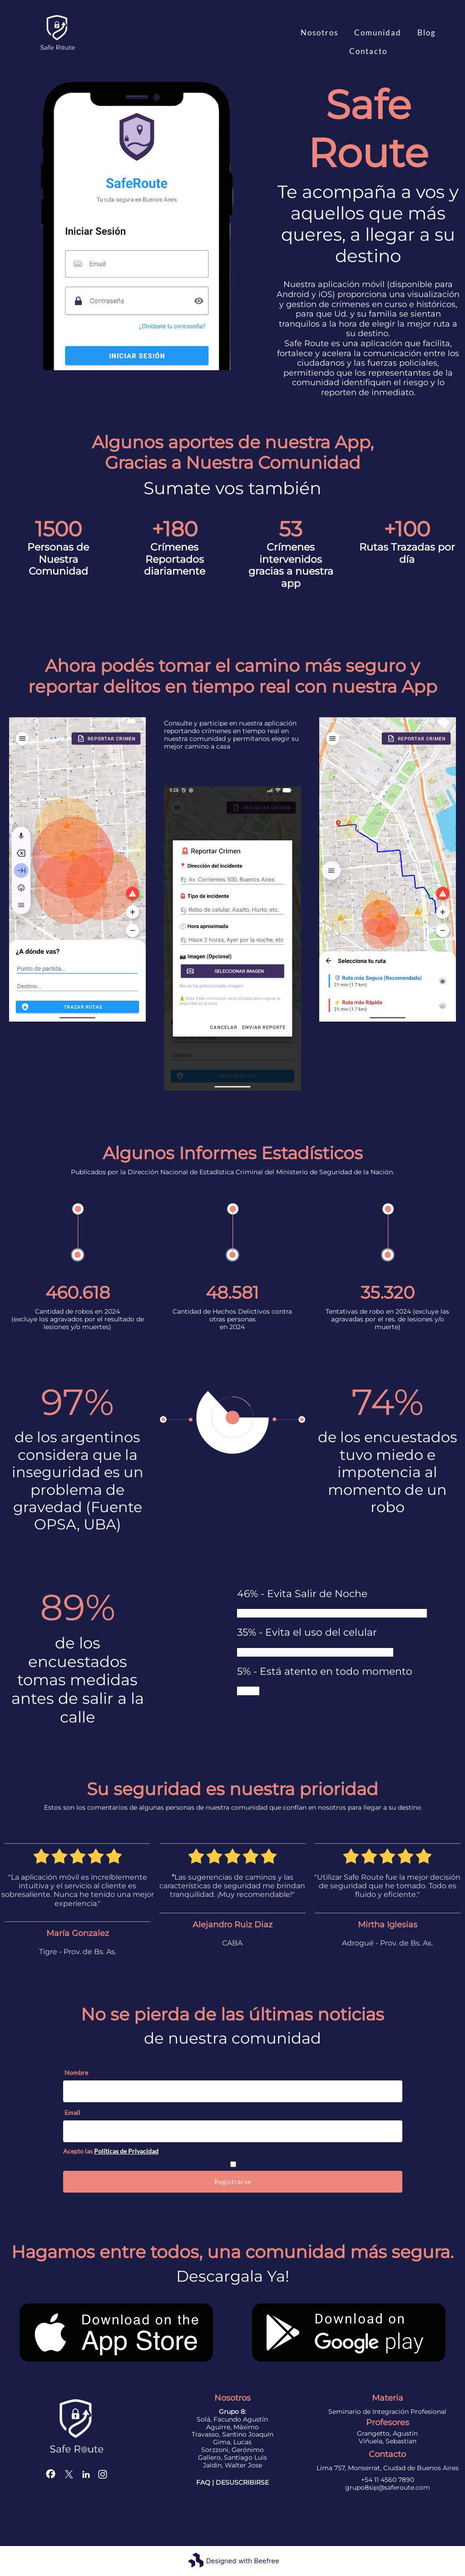
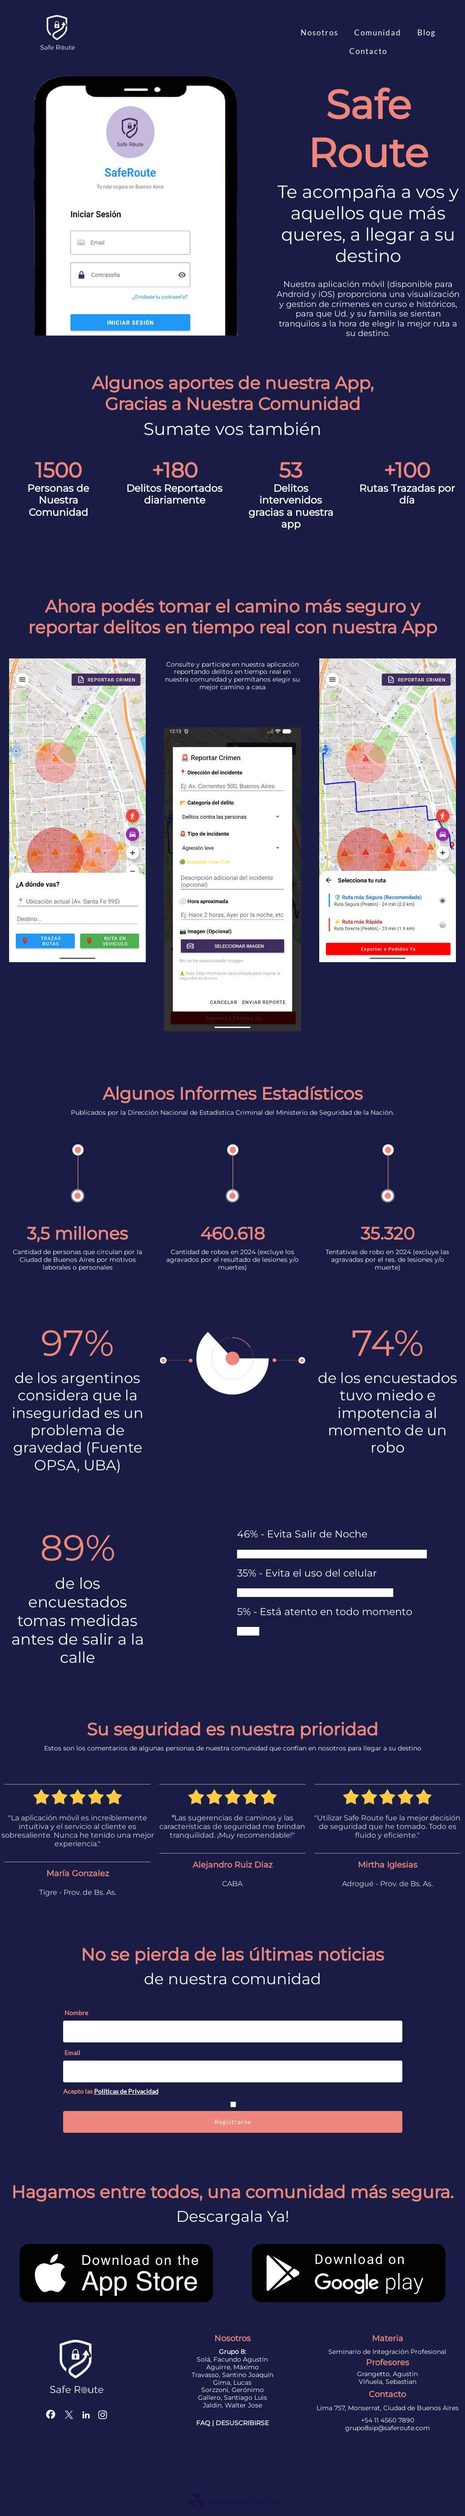
new interfaz

Changed region(s): [[0.0, 0.0, 1.0, 1.0], [0.5, 0.4371, 0.9688, 0.6557]]

diff --git a/index.html b/index.html
@@ -324,12 +324,14 @@
 		.bee-row-25 .bee-row-content,
 		.bee-row-26 .bee-row-content,
 		.bee-row-27 .bee-row-content,
+		.bee-row-28 .bee-row-content,
 		.bee-row-3 .bee-row-content,
 		.bee-row-4 .bee-row-content,
 		.bee-row-5 .bee-row-content,
 		.bee-row-7 .bee-row-content,
 		.bee-row-8 .bee-row-content,
 		.bee-row-9 .bee-row-content {
+			background-color: #191d46;
 			background-repeat: no-repeat;
 			color: #000000
 		}
@@ -450,6 +452,7 @@
 		.bee-row-20 .bee-row-content,
 		.bee-row-21 .bee-row-content,
 		.bee-row-6 .bee-row-content {
+			background-color: #191d46;
 			background-position: top center;
 			background-repeat: no-repeat;
 			color: #000000
@@ -512,6 +515,7 @@
 
 		.bee-row-19 .bee-row-content,
 		.bee-row-22 .bee-row-content {
+			background-color: #191d46;
 			background-repeat: no-repeat;
 			border-radius: 0;
 			color: #000000
@@ -574,12 +578,6 @@
 		.bee-row-28 {
 			background-color: #ffffff;
 			background-repeat: no-repeat
-		}
-
-		.bee-row-28 .bee-row-content {
-			background-color: #ffffff;
-			background-repeat: no-repeat;
-			color: #000000
 		}
 
 		.bee-row-28 .bee-col-1 .bee-block-1 {
@@ -689,9 +687,23 @@
 			text-align: center
 		}
 
-		.bee-row-6 .bee-col-1 .bee-block-2 {
-			color: #ffffff;
-			font-size: 38px;
+		.bee-row-7 .bee-col-1 .bee-block-1,
+		.bee-row-7 .bee-col-2 .bee-block-1,
+		.bee-row-7 .bee-col-3 .bee-block-1,
+		.bee-row-7 .bee-col-4 .bee-block-1 {
+			color: #ef867c;
+			font-size: 46px;
+			line-height: 120%;
+			text-align: center
+		}
+
+		.bee-row-7 .bee-col-1 .bee-block-2,
+		.bee-row-7 .bee-col-2 .bee-block-2,
+		.bee-row-7 .bee-col-3 .bee-block-2,
+		.bee-row-7 .bee-col-4 .bee-block-2 {
+			color: #e80046;
+			font-size: 22px;
+			line-height: 120%;
 			text-align: center
 		}
 
@@ -711,35 +723,22 @@
 			text-align: center
 		}
 
-		.bee-row-7 .bee-col-1 .bee-block-2,
-		.bee-row-7 .bee-col-2 .bee-block-2,
-		.bee-row-7 .bee-col-3 .bee-block-2,
-		.bee-row-7 .bee-col-4 .bee-block-2 {
-			color: #e80046;
-			font-size: 22px;
-			line-height: 120%;
+		.bee-row-6 .bee-col-1 .bee-block-2 {
+			color: #ffffff;
+			font-size: 38px;
 			text-align: center
 		}
 
-		.bee-row-7 .bee-col-1 .bee-block-1,
-		.bee-row-7 .bee-col-2 .bee-block-1,
-		.bee-row-7 .bee-col-3 .bee-block-1,
-		.bee-row-7 .bee-col-4 .bee-block-1 {
-			color: #ef867c;
-			font-size: 46px;
-			line-height: 120%;
-			text-align: center
-		}
-
+		.bee-row-11 .bee-col-1 .bee-block-4,
+		.bee-row-11 .bee-col-2 .bee-block-4,
 		.bee-row-9 .bee-col-2 .bee-block-1 {
-			color: #393d47;
+			color: #ffffff;
 			font-size: 14px;
 			line-height: 120%;
-			text-align: left
+			text-align: center
 		}
 
 		.bee-row-10 .bee-col-1 .bee-block-3,
-		.bee-row-11 .bee-col-1 .bee-block-4,
 		.bee-row-11 .bee-col-3 .bee-block-4,
 		.bee-row-17 .bee-col-1 .bee-block-2,
 		.bee-row-25 .bee-col-2 .bee-block-2,
@@ -753,10 +752,11 @@
 			text-align: center
 		}
 
-		.bee-row-11 .bee-col-2 .bee-block-4 {
-			color: #ffffff;
-			font-size: 14px;
-			line-height: 120%;
+		.bee-row-13 .bee-col-1 .bee-block-1,
+		.bee-row-13 .bee-col-3 .bee-block-1,
+		.bee-row-15 .bee-col-1 .bee-block-1 {
+			color: #ef867c;
+			font-size: 80px;
 			text-align: center
 		}
 
@@ -764,14 +764,6 @@
 		.bee-row-13 .bee-col-3 .bee-block-2 {
 			color: #ffffff;
 			font-size: 32px;
-			text-align: center
-		}
-
-		.bee-row-13 .bee-col-1 .bee-block-1,
-		.bee-row-13 .bee-col-3 .bee-block-1,
-		.bee-row-15 .bee-col-1 .bee-block-1 {
-			color: #ef867c;
-			font-size: 80px;
 			text-align: center
 		}
 
@@ -788,19 +780,6 @@
 		.bee-row-21 .bee-col-1 .bee-block-2 {
 			color: #ffffff;
 			font-size: 34px;
-			text-align: center
-		}
-
-		.bee-row-19 .bee-col-1 .bee-block-5 h2,
-		.bee-row-19 .bee-col-2 .bee-block-5 h2,
-		.bee-row-19 .bee-col-3 .bee-block-5 h2 {
-			color: #ef867c;
-			direction: ltr;
-			font-family: Montserrat, Trebuchet MS, Lucida Grande, Lucida Sans Unicode, Lucida Sans, Tahoma, sans-serif;
-			font-size: 18px;
-			font-weight: 400;
-			letter-spacing: normal;
-			line-height: 120%;
 			text-align: center
 		}
 
@@ -823,6 +802,19 @@
 		.bee-row-19 .bee-col-3 .bee-block-3 a,
 		.bee-row-19 .bee-col-3 .bee-block-6 a {
 			color: #ad97e2
+		}
+
+		.bee-row-19 .bee-col-1 .bee-block-5 h2,
+		.bee-row-19 .bee-col-2 .bee-block-5 h2,
+		.bee-row-19 .bee-col-3 .bee-block-5 h2 {
+			color: #ef867c;
+			direction: ltr;
+			font-family: Montserrat, Trebuchet MS, Lucida Grande, Lucida Sans Unicode, Lucida Sans, Tahoma, sans-serif;
+			font-size: 18px;
+			font-weight: 400;
+			letter-spacing: normal;
+			line-height: 120%;
+			text-align: center
 		}
 
 		@media (max-width:768px) {
@@ -907,10 +899,6 @@
 				font-size: 28px !important
 			}
 
-			.bee-row-6 .bee-col-1 .bee-block-2 {
-				font-size: 38px !important
-			}
-
 			.bee-row-10 .bee-col-1 .bee-block-2,
 			.bee-row-17 .bee-col-1 .bee-block-1,
 			.bee-row-20 .bee-col-1 .bee-block-2,
@@ -921,16 +909,26 @@
 				font-size: 35px !important
 			}
 
-			.bee-row-13 .bee-col-1 .bee-block-2,
-			.bee-row-13 .bee-col-3 .bee-block-2,
-			.bee-row-15 .bee-col-1 .bee-block-2 {
-				font-size: 22px !important
+			.bee-row-6 .bee-col-1 .bee-block-2 {
+				font-size: 38px !important
 			}
 
 			.bee-row-13 .bee-col-1 .bee-block-1,
 			.bee-row-13 .bee-col-3 .bee-block-1,
 			.bee-row-15 .bee-col-1 .bee-block-1 {
 				font-size: 50px !important
+			}
+
+			.bee-row-13 .bee-col-1 .bee-block-2,
+			.bee-row-13 .bee-col-3 .bee-block-2,
+			.bee-row-15 .bee-col-1 .bee-block-2 {
+				font-size: 22px !important
+			}
+
+			.bee-row-19 .bee-col-1 .bee-block-6,
+			.bee-row-19 .bee-col-2 .bee-block-6,
+			.bee-row-19 .bee-col-3 .bee-block-6 {
+				text-align: center !important
 			}
 
 			.bee-row-19 .bee-col-1 .bee-block-5,
@@ -940,12 +938,6 @@
 			.bee-row-19 .bee-col-3 .bee-block-5,
 			.bee-row-19 .bee-col-3 .bee-block-5 h2 {
 				text-align: center
-			}
-
-			.bee-row-19 .bee-col-1 .bee-block-6,
-			.bee-row-19 .bee-col-2 .bee-block-6,
-			.bee-row-19 .bee-col-3 .bee-block-6 {
-				text-align: center !important
 			}
 		}
 
@@ -1125,7 +1117,7 @@
 					<div class="bee-block bee-block-1 bee-divider">
 						<div class="spacer" style="height:0px;"></div>
 					</div>
-					<div class="bee-block bee-block-2 bee-image"><a href="https://www.example.com" target="_self"><img alt="Graphic-image" class="bee-center bee-fixedwidth" src="images/3_high_quality2_1.png" style="max-width:448px;" title="Graphic-image" /></a></div>
+					<div class="bee-block bee-block-2 bee-image"><a href="https://www.example.com" target="_self"><img alt="Graphic-image" class="bee-center bee-fixedwidth" src="images/3_front2_3.png" style="max-width:448px;border-radius:60px 60px 0px 0px;" title="Graphic-image" /></a></div>
 				</div>
 				<div class="bee-col bee-col-2 bee-col-w5">
 					<div class="bee-block bee-block-1 bee-divider">
@@ -1141,7 +1133,7 @@
 						<div class="spacer" style="height:10px;"></div>
 					</div>
 					<div class="bee-block bee-block-5 bee-paragraph">
-						<p style="word-break: break-word;"><span style="color: #ffffff;">Nuestra aplicación móvil (disponible para Android y iOS) proporciona una visualización y gestion de delitos o incidentes en curso e históricos, para que Ud. y su familia se sientan tranquilos a la hora de elegir la mejor ruta a su destino.</span></p>
+						<p style="word-break: break-word;"><span style="color: #ffffff;">Nuestra aplicación móvil (disponible para Android y iOS) proporciona una visualización y gestion de crímenes en curso e históricos, para que Ud. y su familia se sientan tranquilos a la hora de elegir la mejor ruta a su destino.</span></p>
 					</div>
 				</div>
 			</div>
@@ -1240,19 +1232,19 @@
 		<div class="bee-row bee-row-9">
 			<div class="bee-row-content">
 				<div class="bee-col bee-col-1 bee-col-w4">
-					<div class="bee-block bee-block-1 bee-image"><img alt="top-photo-rated" class="bee-center bee-autowidth" src="images/4_Screenshot_20251108_213054.png" style="max-width:386px;" title="top-photo-rated" /></div>
+					<div class="bee-block bee-block-1 bee-image"><img alt="top-photo-rated" class="bee-center bee-autowidth" src="images/4_Screenshot_20251118_121159.png" style="max-width:386px;" title="top-photo-rated" /></div>
 				</div>
 				<div class="bee-col bee-col-2 bee-col-w4">
 					<div class="bee-block bee-block-1 bee-paragraph">
-						<p style="word-break: break-word;"><span style="color: #ffffff;">Consulte y participe en nuestra aplicación reportando delitos en tiempo real en nuestra comunidad y permítanos elegir su mejor camino a casa </span></p>
+						<p>Consulte y participe en nuestra aplicación reportando delitos en tiempo real en nuestra comunidad y permítanos elegir su mejor camino a casa</p>
 					</div>
 					<div class="bee-block bee-block-2 bee-divider">
 						<div class="spacer" style="height:50px;"></div>
 					</div>
-					<div class="bee-block bee-block-3 bee-image"><img alt="top-photo-rated" class="bee-center bee-autowidth" src="images/5_Screenshot_20251108_212930.png" style="max-width:386px;" title="top-photo-rated" /></div>
+					<div class="bee-block bee-block-3 bee-image"><img alt="top-photo-rated" class="bee-center bee-autowidth" src="images/5_Screenshot_20251118_121358.png" style="max-width:386px;" title="top-photo-rated" /></div>
 				</div>
 				<div class="bee-col bee-col-3 bee-col-w4">
-					<div class="bee-block bee-block-1 bee-image"><img alt="top-photo-rated" class="bee-center bee-autowidth" src="images/6_Screenshot_20251108_213545.png" style="max-width:386px;" title="top-photo-rated" /></div>
+					<div class="bee-block bee-block-1 bee-image"><img alt="top-photo-rated" class="bee-center bee-autowidth" src="images/6_Screenshot_20251118_121338.png" style="max-width:386px;" title="top-photo-rated" /></div>
 				</div>
 			</div>
 		</div>
@@ -1282,10 +1274,10 @@
 						<div class="spacer" style="height:30px;"></div>
 					</div>
 					<div class="bee-block bee-block-3 bee-paragraph">
-						<p style="word-break: break-word;"><strong><span>3,5 millones</span></strong></p>
+						<p style="word-break: break-word;"><strong>3,5 millones</strong></p>
 					</div>
 					<div class="bee-block bee-block-4 bee-paragraph">
-						<p><span style="color: #ffffff;">Cantidad de personas que circulan por la Ciudad de Buenos Aires por motivos laborales o personales</span></p>
+						<p>Cantidad de personas que circulan por la Ciudad de Buenos Aires por motivos laborales o personales</p>
 					</div>
 				</div>
 				<div class="bee-col bee-col-2 bee-col-w4">
@@ -1294,7 +1286,7 @@
 						<div class="spacer" style="height:30px;"></div>
 					</div>
 					<div class="bee-block bee-block-3 bee-paragraph">
-						<p style="word-break: break-word;"><strong><span>460.618</span></strong></p>
+						<p style="word-break: break-word;"><strong>460.618</strong></p>
 					</div>
 					<div class="bee-block bee-block-4 bee-paragraph">
 						<p>Cantidad de robos en 2024 (excluye los agravados por el resultado de lesiones y/o muertes)</p>
